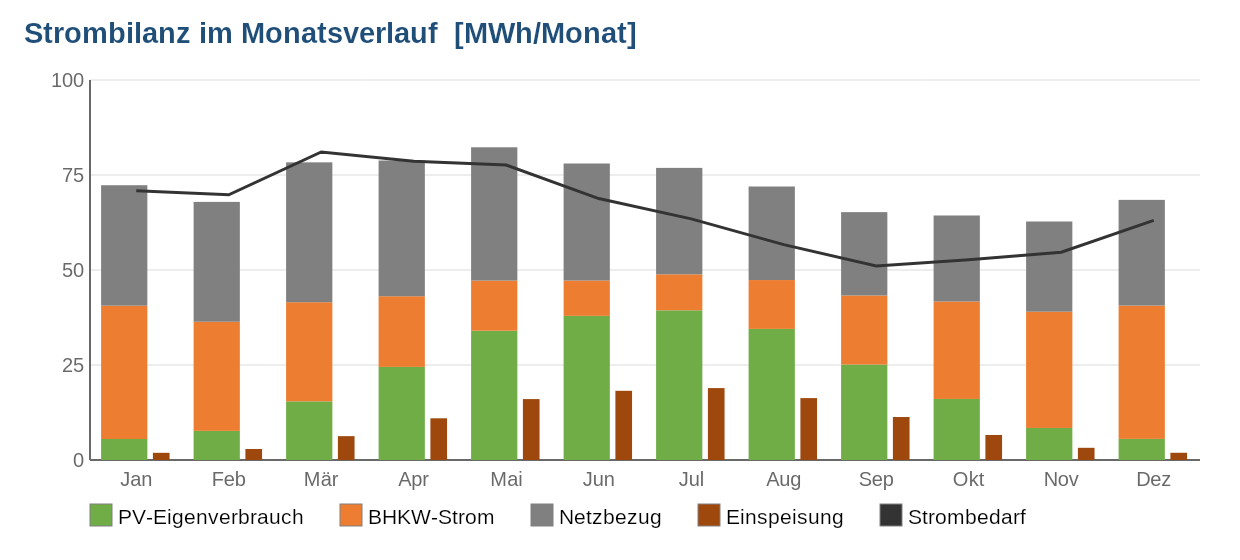
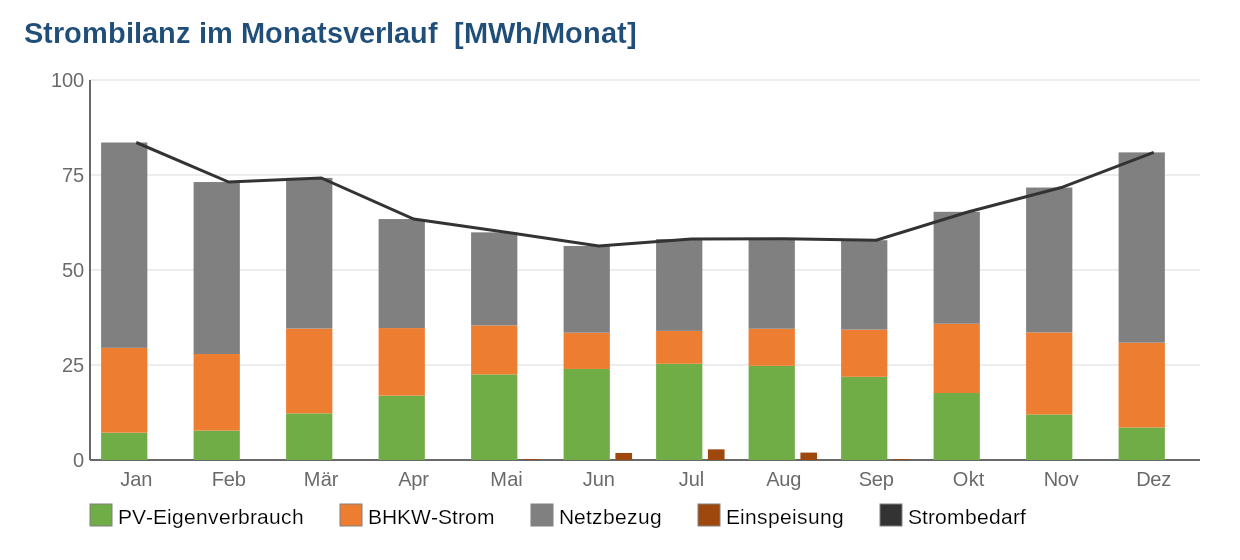
ChartProben --wiki: stimmiger Satz fuer Waerme- und Strombilder
Eigener Zeitreihensatz, in dem eine Kaskade stuendlich genau den
Bedarf deckt (Waerme und Strom); Jahresverlauf, Dauerlinie und
Strombilanz im Wiki daraus neu, Bildunterschriften angepasst.
Standardproben und Messlatte unveraendert.

Claude-Session: https://claude.ai/code/session_01GmWb8FKp9ZAxRprjxHLLAW

diff --git a/Proben/ChartProben/Program.Wiki.cs b/Proben/ChartProben/Program.Wiki.cs
@@ -1,0 +1,89 @@
+using System;
+using System.IO;
+using WindowsFormsApplication1;
+using WindowsFormsApplication1.Zeichnung;
+
+namespace ChartProben
+{
+    /// <summary>
+    /// Die Wiki-Fassungen der Wärme- und Strombilder (Schalter <c>--wiki</c>): ein eigener, physikalisch stimmiger
+    /// Zeitreihensatz. Anders als <see cref="SyntheticherSatz"/> (unabhängige Sinusreihen für die Maß- und Hashproben)
+    /// deckt hier eine Kaskade in jeder Stunde genau den Bedarf, damit Stapel und Bedarfslinie im Wiki zusammenpassen.
+    /// Die Standardproben und ihre Messlatte berührt das nicht.
+    /// </summary>
+    internal static partial class Program
+    {
+        /// <summary>
+        /// Wärme: Heizung nach Außentemperatur (Heizgrenze 15 °C) plus Brauchwasser im Tagesgang; Deckung Solarthermie,
+        /// BHKW in Grundlast (50 kW, Mindestlast 25 kW), Wärmepumpe bis zu ihrer temperaturabhängigen Leistung,
+        /// Heizstab in den kältesten Stunden, Spitzenkessel den Rest. Strom: Grundlast plus Antrieb der Wärmepumpe;
+        /// Deckung BHKW, Photovoltaik, Netz; der Überschuss der Photovoltaik wird eingespeist.
+        /// </summary>
+        private static ZeitreihenSatz WikiSatz()
+        {
+            var bedarf = new double[STUNDEN]; var temp = new double[STUNDEN];
+            var solar = new double[STUNDEN]; var bhkw = new double[STUNDEN]; var wp = new double[STUNDEN];
+            var stab = new double[STUNDEN]; var kessel = new double[STUNDEN];
+            var strom = new double[STUNDEN]; var bhkwStrom = new double[STUNDEN]; var pvGenutzt = new double[STUNDEN];
+            var netz = new double[STUNDEN]; var einspeisung = new double[STUNDEN];
+
+            for (int h = 0; h < STUNDEN; h++)
+            {
+                int stunde = h % 24;
+                double jahr = 2.0 * Math.PI * (h / (double)STUNDEN - 0.04);
+                double t = 9.0 - 10.0 * Math.Cos(jahr) + 4.0 * Math.Sin(2.0 * Math.PI * (stunde - 9) / 24.0);
+                temp[h] = t;
+
+                double heizung = Math.Max(0.0, 15.0 - t) * 9.0;
+                double zapfung = 30.0 + 15.0 * Math.Exp(-Math.Pow(stunde - 7, 2) / 2.0)
+                                      + 12.0 * Math.Exp(-Math.Pow(stunde - 19, 2) / 3.0);
+                double q = heizung + zapfung;
+                bedarf[h] = q;
+
+                // Einstrahlung: Tagesbogen 6 bis 18 Uhr, im Sommer stärker.
+                double tagbogen = stunde > 6 && stunde < 18 ? Math.Sin(Math.PI * (stunde - 6) / 12.0) : 0.0;
+                double sommer = 0.25 + 0.75 * (1.0 - Math.Cos(jahr)) / 2.0;
+                double sonne = tagbogen * sommer;
+
+                double rest = q;
+                solar[h] = Math.Min(rest, 60.0 * sonne); rest -= solar[h];
+                bhkw[h] = rest >= 25.0 ? Math.Min(rest, 50.0) : 0.0; rest -= bhkw[h];
+                wp[h] = Math.Min(rest, 100.0 + 2.0 * t); rest -= wp[h];
+                stab[h] = t < -3.0 ? Math.Min(rest, 10.0) : 0.0; rest -= stab[h];
+                kessel[h] = rest;
+
+                double cop = 3.0 + 0.08 * t;
+                strom[h] = 70.0 + 25.0 * tagbogen + wp[h] / cop + stab[h];
+                bhkwStrom[h] = 0.6 * bhkw[h];
+                double pv = 120.0 * sonne;
+                pvGenutzt[h] = Math.Min(pv, strom[h] - bhkwStrom[h]);
+                einspeisung[h] = pv - pvGenutzt[h];
+                netz[h] = strom[h] - bhkwStrom[h] - pvGenutzt[h];
+            }
+
+            var z = new ZeitreihenSatz();
+            z.Reihen[ZeitreihenSatz.WAERMEBEDARF] = bedarf;
+            z.Reihen[ZeitreihenSatz.TEMPERATUR] = temp;
+            z.Reihen[ZeitreihenSatz.SOLAR_WAERME] = solar;
+            z.Reihen[ZeitreihenSatz.BHKW_WAERME] = bhkw;
+            z.Reihen[ZeitreihenSatz.WP_WAERME] = wp;
+            z.Reihen[ZeitreihenSatz.HEIZSTAB] = stab;
+            z.Reihen[ZeitreihenSatz.KESSEL_WAERME] = kessel;
+            z.Reihen[ZeitreihenSatz.STROMBEDARF] = strom;
+            z.Reihen[ZeitreihenSatz.BHKW_STROM] = bhkwStrom;
+            z.Reihen[ZeitreihenSatz.PV_GENUTZT] = pvGenutzt;
+            z.Reihen[ZeitreihenSatz.PV_UEBERSCHUSS] = einspeisung;
+            z.Reihen[ZeitreihenSatz.NETZBEZUG] = netz;
+            return z;
+        }
+
+        /// <summary>Schreibt Jahresverlauf, Jahresdauerlinie und Strombilanz aus dem stimmigen Satz.</summary>
+        private static void WikiZeitreihenbilder(string ordner)
+        {
+            ZeitreihenSatz z = WikiSatz();
+            File.WriteAllBytes(Path.Combine(ordner, "Diagramm_Waerme_Jahresverlauf.png"), ChartRenderer.JahresverlaufWaerme(z));
+            File.WriteAllBytes(Path.Combine(ordner, "Diagramm_Waerme_Dauerlinie.png"), ChartRenderer.DauerlinieWaerme(z));
+            File.WriteAllBytes(Path.Combine(ordner, "Diagramm_Strombilanz_Monate.png"), ChartRenderer.StrombilanzMonate(z));
+        }
+    }
+}

diff --git a/Proben/ChartProben/Program.cs b/Proben/ChartProben/Program.cs
@@ -123,6 +123,7 @@ namespace ChartProben
             {
                 Directory.CreateDirectory(wiki);
                 BivalenzWikibild(wiki);
+                WikiZeitreihenbilder(wiki);
                 Console.WriteLine("Wiki-Fassungen geschrieben: " + wiki);
                 return 0;
             }
